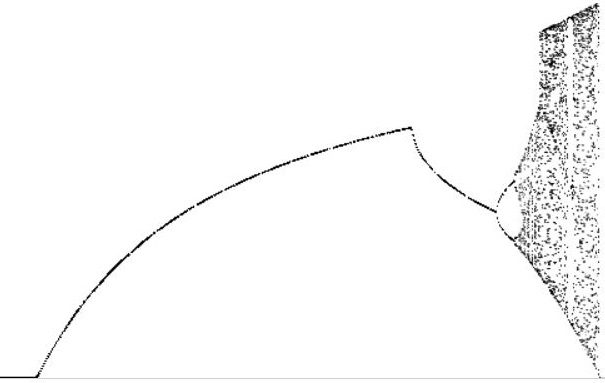
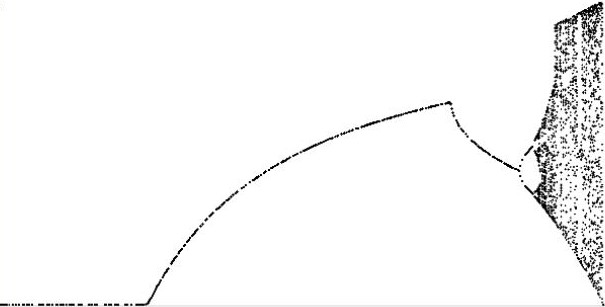
update bifurcation diagrams

diff --git a/knowledge/math/logistic-map-inverse-cobweb-diagram.md b/knowledge/math/logistic-map-inverse-cobweb-diagram.md
@@ -1,8 +1,6 @@
 # Interpreting the Dynamics of the Logistic Map Using an Inverse Cobweb Diagram
 
-**Author:** Viktor Rom
-
-**Date:** March 15, 2026
+**Author:** Viktor Rom, Stockholm, March 15, 2026
 
 ---
 
@@ -12,18 +10,18 @@ This paper explores the mathematical intricacies of the logistic map, its invers
 
 ---
 
-## 1. Introduction
+## Introduction
 
-The logistic map is a fundamental mathematical model used to describe population dynamics, chaos theory, and bifurcation phenomena [1]. Defined as a simple quadratic recurrence relation, the logistic map exhibits a rich variety of behaviors, ranging from fixed points to chaotic oscillations [4, 5]. This paper extends the classical analysis by incorporating the inverse logistic map and exploring the interplay between the two maps.
+The logistic map is a fundamental mathematical model used to describe population dynamics, chaos theory, and bifurcation phenomena. Defined as a simple quadratic recurrence relation, the logistic map exhibits a rich variety of behaviors, ranging from fixed points to chaotic oscillations. This paper extends the classical analysis by incorporating the inverse logistic map and exploring the interplay between the two maps.
 
 ---
 
-## 2. The Logistic Map
+## The Logistic Map
 
-We consider the logistic map as a function $f : [0,1] \to [0,1]$ defined by:
-$$
-f(x) = r x (1 - x)
-$$
+Logistic Map as a function $f : [0,1] \to [0,1]$ is defined by:
+
+$ f(x) = r x (1 - x)$
+
 where:
 
 - $x \in [0,1]$
@@ -35,12 +33,13 @@ The logistic map is an endofunction on the interval $[0,1]$, mapping values with
 
 ---
 
-## 3. The Inverse Logistic Map
+## The Inverse Logistic Map
 
 The inverse of the logistic map is given by:
-$$
+
+$
 f^{-1}(x) = \frac{1}{2}\left(1 \pm \sqrt{1 - 4\frac{x}{r}}\right)
-$$
+$
 
 ![Inverse Logistic Map](images/inverse-logistic-map.jpg)
 
@@ -52,7 +51,7 @@ This inverse function is defined for $x \in [0, r/4]$, ensuring that the square 
 
 ---
 
-## 4. Intersection Points
+## Intersection Points
 
 The intersection points of $f(x)$ and $f^{-1}(x)$ depend on the parameter $r$:
 
@@ -60,45 +59,52 @@ The intersection points of $f(x)$ and $f^{-1}(x)$ depend on the parameter $r$:
 ### Case 1: $0 \leq r \leq 1$
 
 There is only one intersection point:
-$$
+
+$
 X_0 = 0
-$$
+$
 
 ![Intersection Points 1](images/intersection-points-1.jpg)
 
 ### Case 2: $1 < r \leq 3$
 
 There are two intersection points:
-$$
+
+$
 X_0 = 0
-$$
-$$
+$
+
+$
 X_1 = \frac{r-1}{r}
-$$
+$
 
 ![Intersection Points 2](images/intersection-points-2.jpg)
 
 ### Case 3: $3 < r \leq 4$
 
 There are four intersection points:
-$$
+
+$
 X_0 = 0
-$$
-$$
+$
+
+$
 X_1 = \frac{r-1}{r}
-$$
-$$
+$
+
+$
 X_2 = \frac{1}{2r}(r+1 - \sqrt{r^2 - 2r - 3})
-$$
-$$
+$
+
+$
 X_3 = \frac{1}{2r}(r+1 + \sqrt{r^2 - 2r - 3})
-$$
+$
 
 ![Intersection Points 3](images/intersection-points-3.jpg)
 
 ---
 
-## 5. Iteration Sequence
+## Iteration Sequence
 
 ### Step 1
 
@@ -141,97 +147,101 @@ The sequence continues in the same manner — "bouncing" between the direct and 
 
 ---
 
-## 6. Inverse Cobweb Diagram
+## Inverse Cobweb Diagram
 
-A cobweb diagram is a geometric visualization of repeated function iteration [4]. Traditionally, it shows how values "bounce" between the function curve $y = f(x)$ and the diagonal line $y = x$. In this paper, we replace the diagonal line with the inverse function curve $y = f^{-1}(x)$:
-$$
+A cobweb diagram is a geometric visualization of repeated function iteration. Traditionally, it shows how values "bounce" between the function curve $y = f(x)$ and the diagonal line $y = x$. In this case, we replace the diagonal line with the inverse function curve $y = f^{-1}(x)$:
+
+$
 y = \frac{1}{2}\left(1 \pm \sqrt{1-4\frac{x}{r}}\right)
-$$
+$
+
 This approach provides an alternative geometric perspective on the dynamics of the logistic map.
 
 ![Cobweb diagram](images/100-iterations.jpg)
 
 ---
 
-## 7. Stable Iteration Cycle with Three Nodes
+## Stable Iteration Cycle with Three Nodes
 
-For certain values of $r$ (denoted as $r_{o3}$), the iteration sequence stabilizes into a three-node cycle. The existence of a period-3 orbit is of particular significance: by the theorem of Li and Yorke [2], period three implies chaos for any continuous self-map of an interval. To calculate $r_{o3}$, we need to solve the following two equations:
+For certain values of $r$ (denoted as $r_{o3}$), the iteration sequence stabilizes into a three-node cycle. To calculate $r_{o3}$, we need to solve the following two equations:
 
 ![Orbit of 3](images/orbit-3.jpg)
 
 ### Equation 1
 
-$$
+$
 f(x) = \frac{1}{2}, \quad r > 2
-$$
-$$
-rx(1-x) = \frac{1}{2}
-$$
+$
+
 Solutions for $r > 2$:
-$$
+
+$
 x_{o1} = \frac{r-\sqrt{(r-2)r}}{2r}
-$$
-$$
+$
+
+$
 x_{o2} = \frac{r+\sqrt{(r-2)r}}{2r}
-$$
+$
 
 ### Equation 2
 
-$$
+$
 f^{-1}(x_{o1}) = f\left(\frac{1}{2}\right), \quad r > 2
-$$
-$$
+$
+
+$
 \frac{1}{2}\left(1+\sqrt{1-4\frac{r-\sqrt{(r-2)r}}{2r^2}}\right) = \frac{r}{4}
-$$
+$
 
 The solution for $r > 2$ is:
-$$
+
+$
 r_{o3} = 1 + \sqrt{1 + \frac{1}{3}\left(8 + (800 - 96\sqrt{69})^{1/3} + 2 \cdot 2^{2/3}(25 + 3\sqrt{69})^{1/3}\right)}
-$$
-$$
+$
+
+$
 r_{o3} \approx 3.8318740552833155684103627754961065557978278526036946304788904477
-$$
+$
 
 ---
 
-## 8. Bifurcation Diagrams
+## Bifurcation Diagrams
 
-### 8.1 Logistic Map
+### Logistic Map
 
 Since the iteration values "bounce" between the direct and inverse Logistic Map, we can identify two bifurcation sets [3]:
 
-#### 8.1.1 Bifurcation diagram on y-axis
+#### Bifurcation diagram on y-axis
 
 ![Bifurcation diagram on y-axis](images/bifurcation-y.jpg)
 
-#### 8.1.2 Bifurcation diagram on x-axis
+#### Bifurcation diagram on x-axis
 
 ![Bifurcation diagram on x-axis](images/bifurcation-x.jpg)
 
-### 8.2 Sinusoidal Variant
+### Sinusoidal Variant
 
 The bifurcation diagram for $f(x) = \frac{r}{4} \sin(\pi x)$ provides an alternative perspective on the dynamics of similar endofunctions.
 
-#### 8.2.1 Bifurcation diagram on y-axis
+#### Bifurcation diagram on y-axis
 
-![Bifurcation diagram on y-axis (sinusoidal variant)](images/bifurcation-y-sinus.jpg)
+![Bifurcation diagram on y-axis (sinusoidal variant)](images/bifurcation-sinus-y.jpg)
 
-#### 8.2.2 Bifurcation diagram on x-axis
+#### Bifurcation diagram on x-axis
 
-![Bifurcation diagram on x-axis (sinusoidal variant)](images/bifurcation-x-sinus.jpg)
-
----
-
-## 9. Conclusion
-
-This paper has presented a detailed analysis of the logistic map, its inverse, and their interplay. By exploring the iterative dynamics and constructing the inverse cobweb diagram, we have gained new insights into the behavior of controlled chaos. The identification of a stable three-node cycle and the bifurcation diagrams further highlight the richness of this mathematical system.
+![Bifurcation diagram on x-axis (sinusoidal variant)](images/bifurcation-sinus-x.jpg)
 
 ---
 
-## References
+### Comparison of logistic map and sinusoidal bifurcation diagrams
 
-1. May, R. M. (1976). "Simple mathematical models with very complicated dynamics." *Nature*, 261(5560), 459–467.
-2. Li, T. Y., & Yorke, J. A. (1975). "Period three implies chaos." *The American Mathematical Monthly*, 82(10), 985–992.
-3. Feigenbaum, M. J. (1978). "Quantitative universality for a class of nonlinear transformations." *Journal of Statistical Physics*, 19(1), 25–52.
-4. Strogatz, S. H. (2018). *Nonlinear Dynamics and Chaos: With Applications to Physics, Biology, Chemistry, and Engineering* (2nd ed.). CRC Press.
-5. Devaney, R. L. (1989). *An Introduction to Chaotic Dynamical Systems* (2nd ed.). Addison-Wesley.
+![Bifurcation diagram on x-axis (sinusoidal variant)](images/bifurcation-comparison.jpg)
+
+---
+
+## Conclusion
+
+This paper has presented an analysis of the logistic map, its inverse, and their interplay. By exploring the iterative dynamics and constructing the inverse cobweb diagram, we have gained new insights into the behavior of controlled chaos. The identification of a stable three-node cycle and the bifurcation diagrams further highlight the richness of this mathematical system.
+
+---
+
